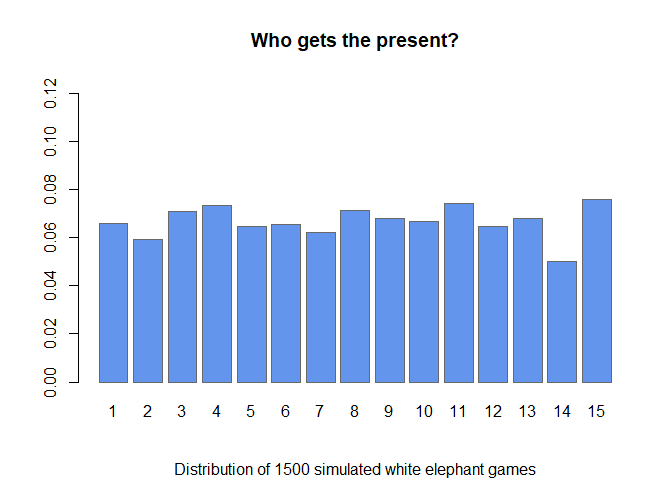
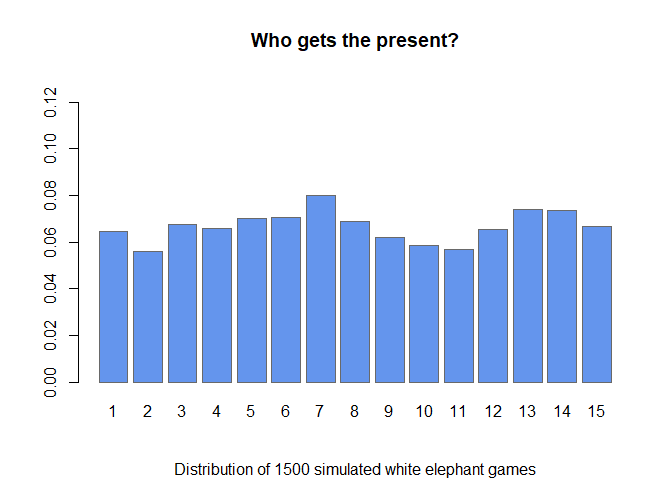
update to readme file

diff --git a/README.md b/README.md
@@ -16,7 +16,7 @@ devise a better strategy to win.
 You can install the development version of partyGames like so:
 
 ``` r
-# install.package("devtools")
+# install.packages("devtools")
 devtools::install_github("KPDuBose/partyGames")
 ```
 
@@ -31,22 +31,25 @@ summary.partyGames(games)
 #> $winner
 #> winner
 #>   1   2   3   4   5   6   7   8   9  10  11  12  13  14  15 
-#>  99  89 106 110  97  98  93 107 102 100 111  97 102  75 114 
+#>  97  84 101  99 105 106 120 103  93  88  85  98 111 110 100 
 #> 
 #> $moves
 #> moves
 #>   -6   -5   -4   -3   -2   -1    1    2    3    4    5    6 
-#> 1962 1891 1880 1857 1879 1847 1856 1921 1786 1875 1870 1876 
+#> 1917 1807 1812 1893 1862 1909 1881 1920 1865 1902 1864 1868 
 #> 
 #> attr(,"class")
 #> [1] "elphSum" "list"
 class(games)
 #> [1] "elphList" "list"
 plot.partyGames(games)
-plot.partyGames(summary.partyGames(games))
 ```
 
 <img src="man/figures/README-example-monopoly-1.png" width="100%" />
+
+``` r
+plot.partyGames(summary.partyGames(games))
+```
 
 ## Monopoly Simulation
 
@@ -59,52 +62,52 @@ library(partyGames)
 monopolyGame <- simulateMonopoly()
 monopolyGame
 #> [[1]]
-#>  [1] 10  8 13 16 12 17 13 11 15 23 22 12 12 14 19 11 11 18 20 17 10 14 16 12 20
-#> [26] 14 11 19 13 15 13 13 19 16 14 12 17 11 14 17
+#>  [1] 22 12 16 11 11 14 15 17 20 16 25 17 15 17 12 13 11 17 15 17 21 13 13  9 12
+#> [26] 16  9 15 15 19  9 11 22 17  9 16  9 21  8 15
 #> 
 #> [[2]]
-#>  [1] 12  8 17 19 15 17 16 16 12 13 24 16 13 16 13 13 13 10 16 15 14 14 16 19  8
-#> [26] 18 15 15 12 16 11 15 11 18 16 13 16 14 19 11
+#>  [1] 15 11 17 13 10 18 16 17 11 14 23 12 19 15 12 14  9 20 15 21 10 22 14 17 12
+#> [26] 10 16 13 20 13 13 22 18 12 13 12 16 13 16 12
 #> 
 #> [[3]]
-#>  [1] 14 17 11 13 13 16 12 19 16 14 19 10 14 12  9 17 15 12 19 13 12 12 17 20 11
-#> [26]  5 18 15 17 13 17 13 12 16 13 11 15 21  7 11
+#>  [1] 18 11 17 10 14  7 15 13 14 13 29 15 17 11 13 12 18 15 18 14 16 15 13 15 12
+#> [26] 17 17 10 19  8 15 16 15 21 12 10 12 10 15 17
 #> 
 #> [[4]]
-#>  [1] 17 13 12 15 15  9 14 15 17 14 28 12 13 19 14 13 21 21 14  6 12 21 16 22 18
-#> [26] 13  8 12 11 12 12 17 20 13 15 16  8 19 13 16
+#>  [1]  9 11 16 14 15 15 13 14  7 22 22 10 15 13 21 18 16  9 21 11 12 23 16 15 17
+#> [26] 14 16 15 18 12  9 18  9 22 18 11 18 14 17  6
 #> 
 #> [[5]]
-#>  [1] 15 16 13 11 12 16  7 18 18 15 25 10 17 13 15 17 14 21  9 14 17 19 10 15 21
-#> [26] 14 13 13 15 14 10 20 12 17 16 14 20 13 14 10
+#>  [1] 11 15 14 15  6 23 16 12 18 15 23 14 12 18 12 10 13 18 12 23 13 12 13 16 15
+#> [26] 13 18 20 17  5 15 15 13 13 16 13 15 10 15 17
 #> 
 #> [[6]]
-#>  [1] 12 16 17 12 12 14  7 19 11 18 22 16 13 15 14 18 13 13 11 13 14 16 15 12 19
-#> [26] 15 15 10 12 15 11 18 10 15 23 10 11 18 15 13
+#>  [1] 11 21  9 15 17 17 10 18 17 10 26 13 15 12  9 18 19  5 19 19 21 17 17 14  9
+#> [26] 13 21 15 17  9 19 12 13 18 16 18 19  9 13  8
 #> 
 #> [[7]]
-#>  [1] 18 14 14 16 18 15  5 15 14 17 19 17 13 19 10 21  8 12 13 15 21 15 25 11 14
-#> [26] 14 10 17 15  9 14 14 15 18 10 17 11 14 15 13
+#>  [1] 13 13 13 17 12 16 15 16 14 14 22 10 14 14 22 11 13 21 19 11 18 17 12 14 16
+#> [26] 17 13 17 15  9 17 16 16 12 15 14 16 17 16 11
 #> 
 #> [[8]]
-#>  [1] 21 11 11 13 11 17 13 17  8 21 16 22 14  7 16 14 16 13 15 15 19 12 18  9 18
-#> [26] 17 14 14 11 11 15 22  9 20 13  8 13 11 13 20
+#>  [1] 20  7 15 13 12 14 15  8 17 12 26  7 20 12 17 11  8 15 17 22  8 10 16 19 13
+#> [26] 15 16 12 16  7 11 16 14 13 15 22 17  7 16 13
 #> 
 #> [[9]]
-#>  [1] 19 15  8 12 11 11 19 16 14 14 21 16 14  7 14 15 10 18 13 14 21 19 10 14 17
-#> [26]  8 15  6 19 17 18 15 11 20 17 13 18 16 21  8
+#>  [1] 19 12 18 10 14 14 13 17 14 15 23 13 16 15 12 15 16 20 11 19 16  7 15 17 12
+#> [26] 13 14 15 13 19 13 17 15  9  8 19 16 14 18 14
 #> 
 #> [[10]]
-#>  [1] 13 13 15 20 11 11  9 13 10 22 18 17 14 13 13 16 13 16 21 17 16 14 16  9 14
-#> [26] 16 13 16 17 13 12  7 18 11 12 19 15 18 10  9
+#>  [1] 12 11 13 18 14 15 13 10 13  9 27 11 19 10 13 15 17 14 14 17 16 14 21 21 12
+#> [26] 10 11 22 12 14 11 14 15 15 16 15 18 13 18  9
 #> 
 #> attr(,"class")
 #> [1] "monopoly" "list"
 summary.monopoly(monopolyGame)
 #>   1   2   3   4   5   6   7   8   9  10  11  12  13  14  15  16  17  18  19  20 
-#> 151 131 131 147 130 143 115 159 135 171 214 148 137 135 137 155 134 154 151 139 
+#> 150 124 148 136 125 153 141 142 145 140 246 122 162 137 143 137 140 154 161 174 
 #>  21  22  23  24  25  26  27  28  29  30  31  32  33  34  35  36  37  38  39  40 
-#> 156 156 159 143 160 134 132 137 142 135 133 154 137 164 149 133 144 155 141 128 
+#> 151 150 150 157 130 138 151 154 162 115 132 157 150 152 138 150 156 128 152 122 
 #> attr(,"class")
 #> [1] "monoSum" "numeric"
 plot.monopoly(monopolyGame)
@@ -124,9 +127,9 @@ monoParallel <- simulateMonopoly(numGames = 20,
 
 summary.monopoly(monoParallel)
 #>   1   2   3   4   5   6   7   8   9  10  11  12  13  14  15  16  17  18  19  20 
-#> 263 291 279 273 254 300 297 279 287 275 428 274 265 298 280 278 295 297 332 296 
+#> 282 275 251 264 276 273 283 296 283 303 423 283 286 274 292 292 306 292 317 321 
 #>  21  22  23  24  25  26  27  28  29  30  31  32  33  34  35  36  37  38  39  40 
-#> 343 312 299 283 302 285 268 320 299 266 293 282 247 301 312 296 278 304 274 280 
+#> 312 306 309 313 332 271 264 276 322 269 308 288 260 295 306 296 284 275 278 284 
 #> attr(,"class")
 #> [1] "monoSum" "numeric"
 plot.monopoly(monoParallel)
